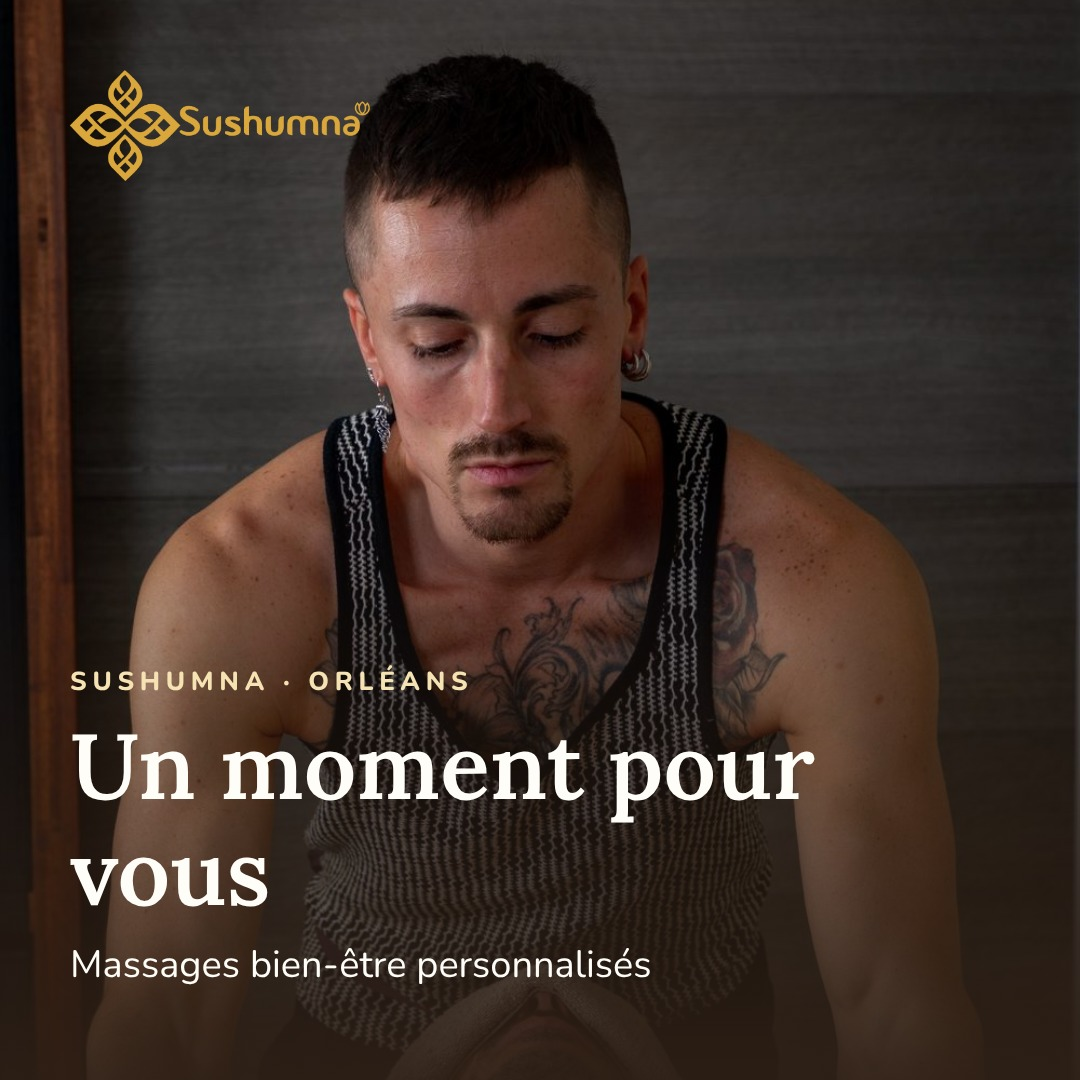
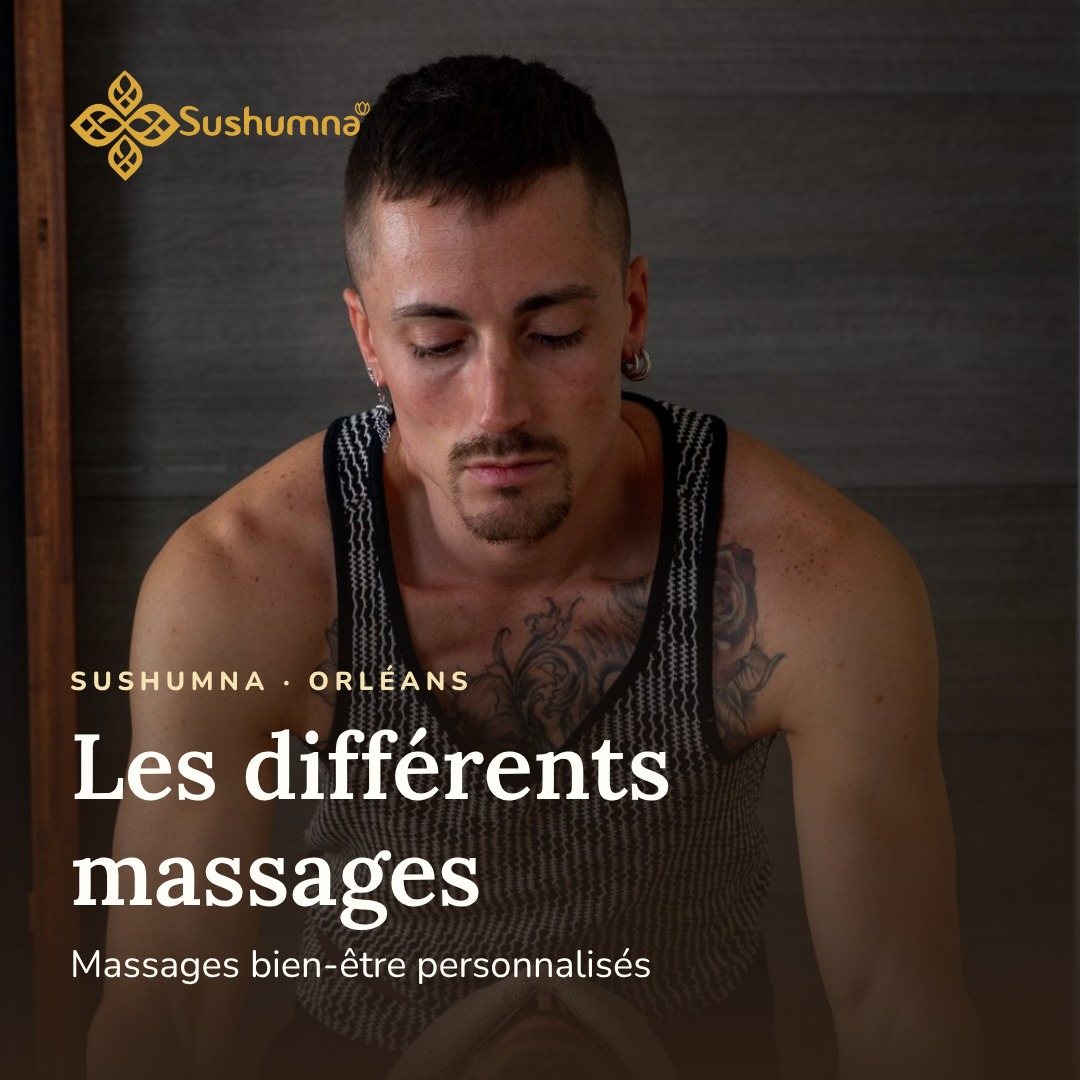
Graphisme : visuel accueil, titre « Les différents massages »
Claude-Session: https://claude.ai/code/session_01FhKW6d7NffjTyYvYf6zG3G

Changed region(s): [[0.0611, 0.6722, 0.7639, 0.7639], [0.0611, 0.7944, 0.4583, 0.8556]]

diff --git a/graphisme/generer.js b/graphisme/generer.js
@@ -326,7 +326,7 @@ const surCreme = (inner, extraCss = '') => ({
 });
 
 const grille = [
-  ['13-grille-accueil', surPhoto('accueil.jpg', { surtitre: 'Sushumna · Orléans', titre: 'Un moment pour vous', sous: 'Massages bien-être personnalisés', position: 'center 30%' })],
+  ['13-grille-accueil', surPhoto('accueil.jpg', { surtitre: 'Sushumna · Orléans', titre: 'Les différents massages', sous: 'Massages bien-être personnalisés', position: 'center 30%' })],
   ['14-grille-bienvenue', surCreme(`<img src="../assets/embleme-hd.png" alt="" style="height:200px;width:auto;margin-bottom:30px">
 <p class="surtitre" style="font-size:28px">Bienvenue</p>
 <h2 class="titre" style="font-size:84px;margin:16px 0 26px">Le bonheur est en vous</h2>

diff --git a/graphisme/sources/13-grille-accueil.html b/graphisme/sources/13-grille-accueil.html
@@ -47,6 +47,6 @@ body{width:var(--w);height:var(--h);overflow:hidden;background:var(--creme);colo
 <div class="page"><img class="fond" src="../../photos/accueil.jpg" alt="" style="object-position:center 30%">
 <div class="voile"></div>
 <img class="marque-haut" src="../assets/logo-hd-or.png" alt="Sushumna">
-<div class="legende"><p class="surtitre">Sushumna · Orléans</p><h2 class="titre">Un moment pour vous</h2><p class="sous">Massages bien-être personnalisés</p></div></div>
+<div class="legende"><p class="surtitre">Sushumna · Orléans</p><h2 class="titre">Les différents massages</h2><p class="sous">Massages bien-être personnalisés</p></div></div>
 </body>
 </html>
